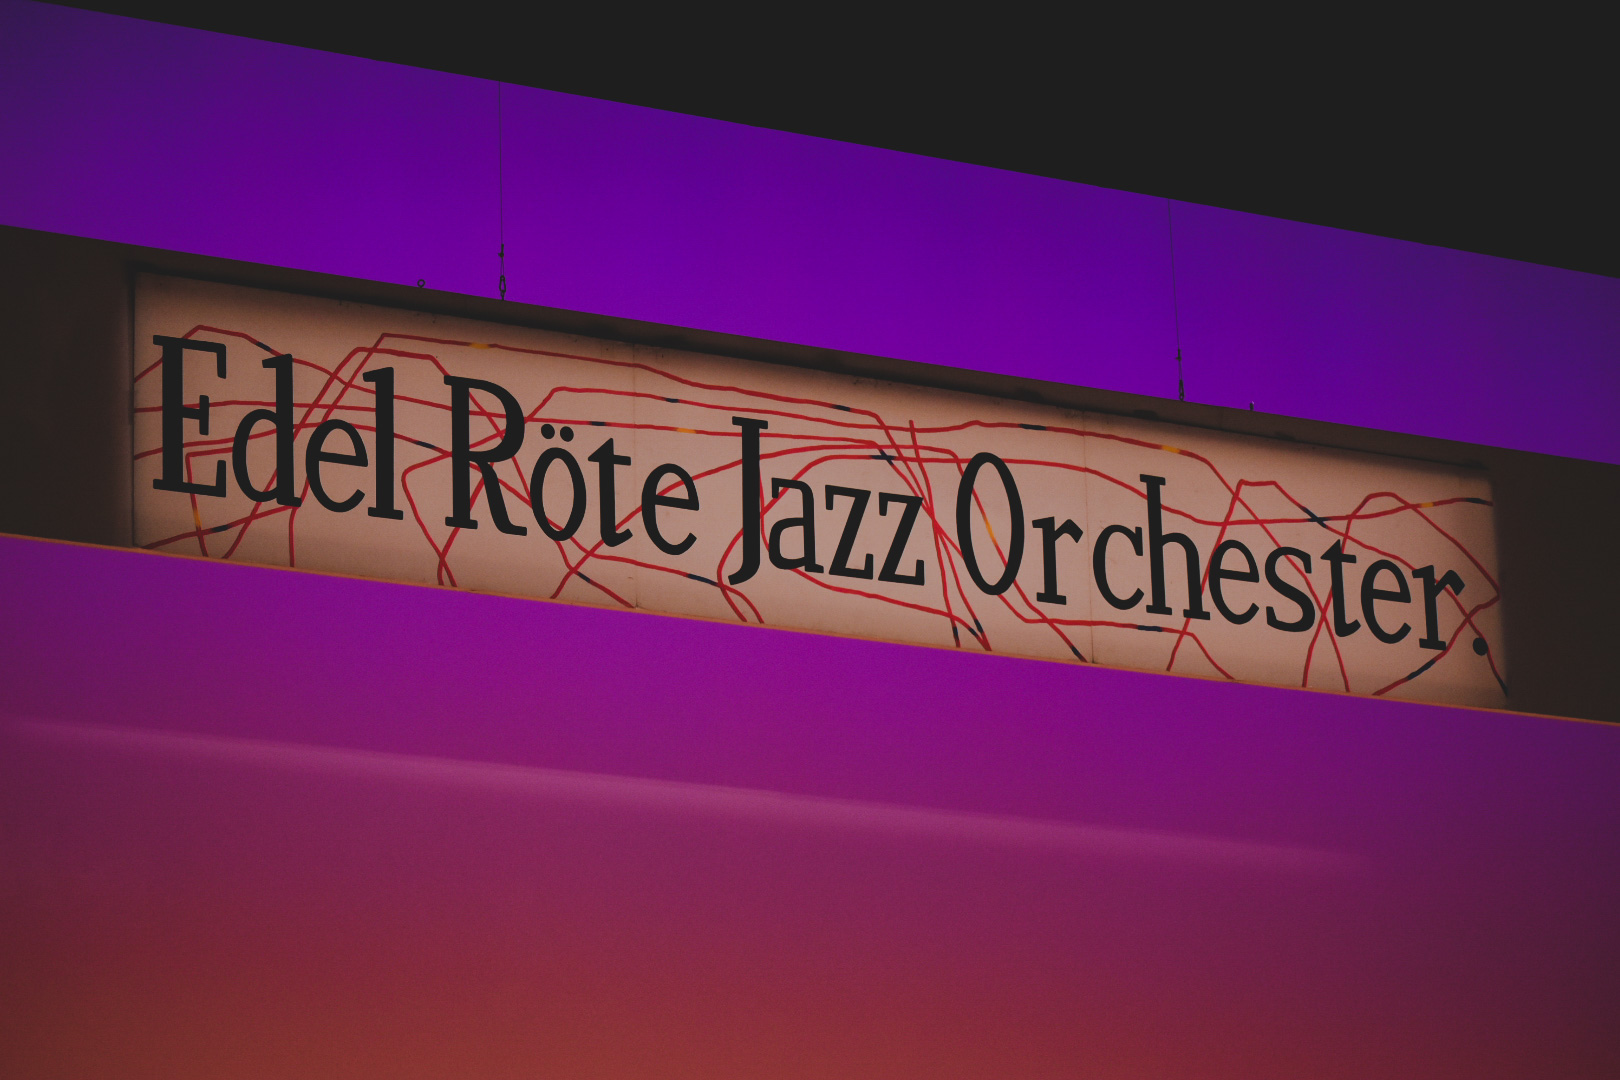
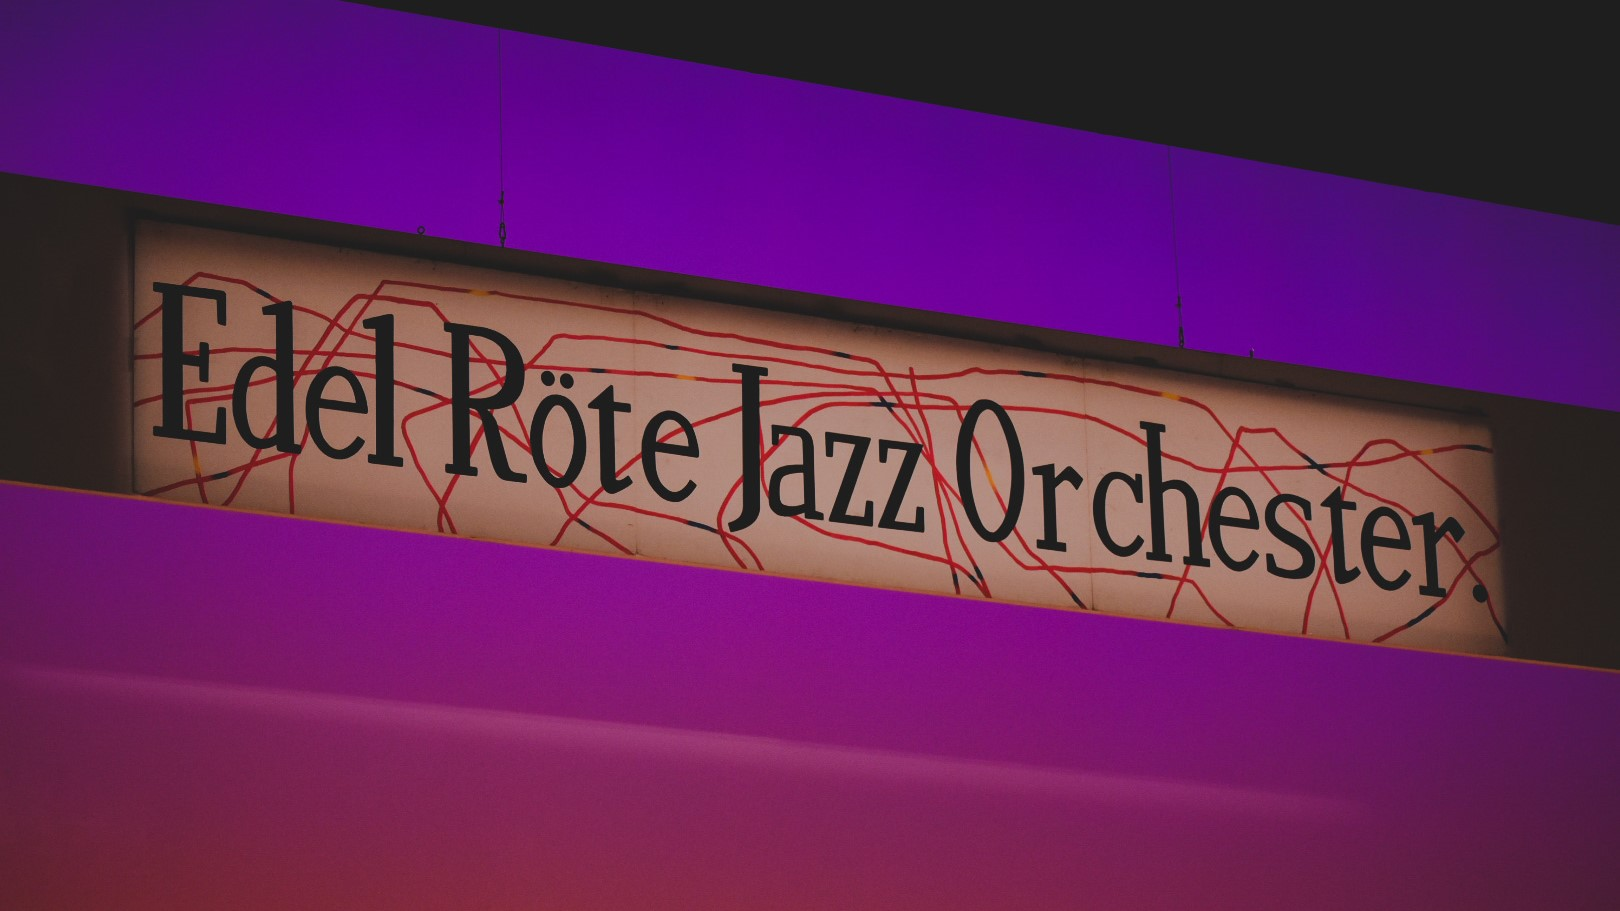
aspect

diff --git a/index.html b/index.html
@@ -53,7 +53,7 @@
     <div id="header"></div>
     <!-- 画面真ん中の情報 -->
     <main class="main">
-      <img src="image/2020Top2.jpg" class="topImage">
+      <img src="image/2020Top.jpg" class="topImage">
 
 
       <div class="info">

diff --git a/css/main.css b/css/main.css
@@ -57,8 +57,7 @@ header{
   margin: 0px 10%;
 }
 .topImage{
-  /*width: 100%;*/
-  width: auto;
+  width: 100%;
 }
 .topText{
   /*font-family : Bodoni 72;*/
